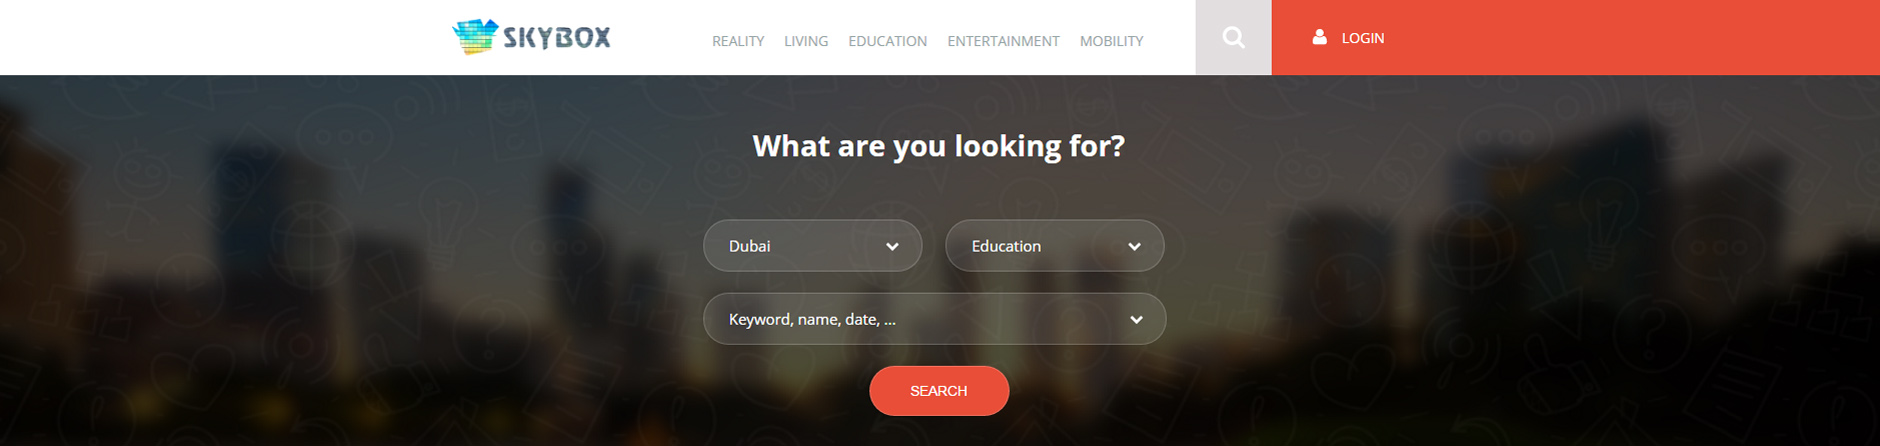
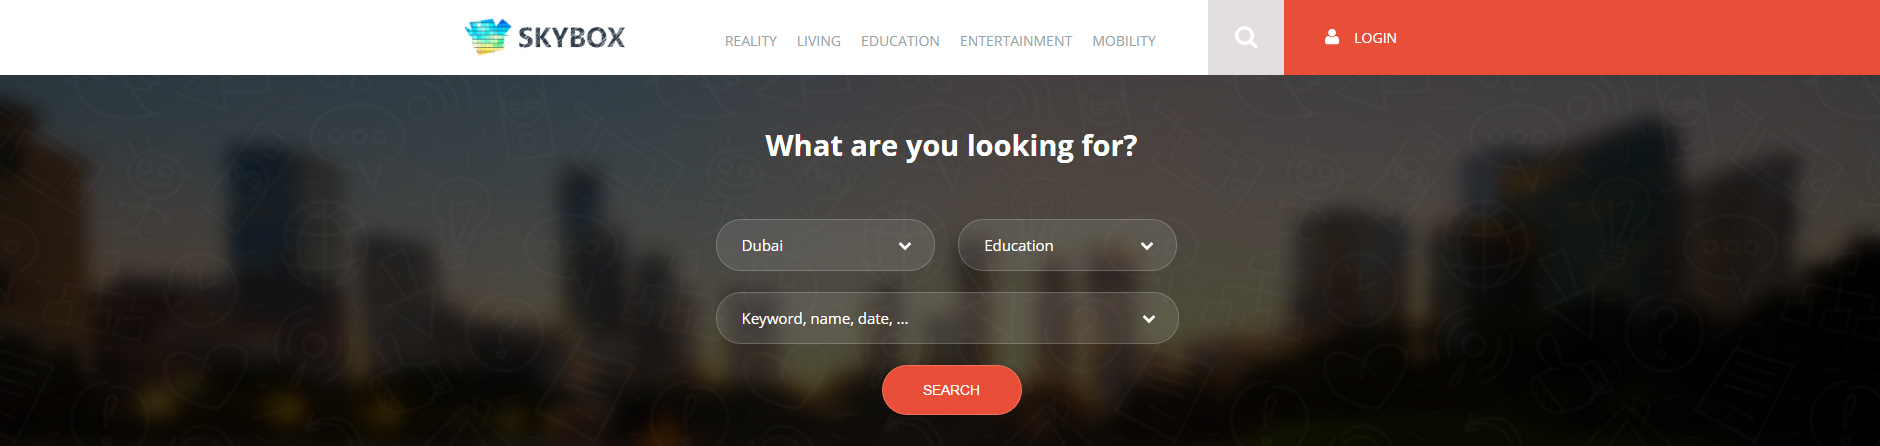
sky2202

diff --git a/skybox/s/main.css b/skybox/s/main.css
@@ -93,7 +93,7 @@ section.b-navigation {
   float: left;
   margin: 15px 0px 0px 0;
   /*background: url(../i/sprite.png);*/
-  background: url(../i/skybox_logo_9.png) no-repeat;
+  background: url(../i/skybox_logo_10.png) no-repeat;
   background-size: contain;
   border: 0px solid red;
 }
